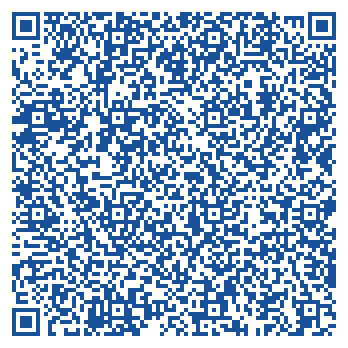
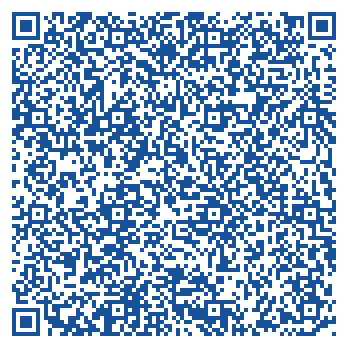
fix(qrcode): update pairing code and auto-refresh in qrcode page

diff --git a/site/qrcode.html b/site/qrcode.html
@@ -149,7 +149,14 @@
   <div class="card">
     <div class="badge">TRD EVOLUTION · WHATSAPP BAILEYS</div>
     <h1>Conectar WhatsApp do Robô</h1>
-    <p class="desc">Escaneie o QR Code abaixo com o número oficial de atendimento da TRD.</p>
+    <p class="desc">Escolha como prefere conectar: Escanear o QR Code ou digitar o Código de Pareamento no WhatsApp.</p>
+
+    <!-- Pairing Code Box (Zero câmera necessária) -->
+    <div style="background: rgba(56, 189, 248, 0.1); border: 1px solid rgba(56, 189, 248, 0.3); border-radius: 12px; padding: 1rem; margin-bottom: 1.25rem;">
+      <div style="font-size: 0.75rem; text-transform: uppercase; letter-spacing: 0.05em; color: #38bdf8; font-weight: 700; margin-bottom: 0.25rem;">Código de Pareamento Direto (Sem Câmera)</div>
+      <div id="pairing-code" style="font-family: 'JetBrains Mono', monospace; font-size: 1.8rem; font-weight: 700; color: #ffffff; letter-spacing: 0.15em;">J9N2WL2Y</div>
+      <div style="font-size: 0.75rem; color: #94a3b8; margin-top: 0.35rem;">No WhatsApp: Aparelhos Conectados &gt; Conectar com número de telefone &gt; digite este código.</div>
+    </div>
 
     <div class="qr-container">
       <img id="qr-img" src="qrcode.png?t=" alt="QR Code WhatsApp">
@@ -158,46 +165,47 @@
     <div class="steps">
       <div class="step-item">
         <span class="step-num">1</span>
-        <span>Abra o <strong>WhatsApp</strong> no seu celular.</span>
+        <span>Abra o <strong>WhatsApp</strong> no celular.</span>
       </div>
       <div class="step-item">
         <span class="step-num">2</span>
-        <span>Toque em <strong>Configurações</strong> &gt; <strong>Aparelhos Conectados</strong> &gt; <strong>Conectar um aparelho</strong>.</span>
+        <span>Vá em <strong>Aparelhos Conectados &gt; Conectar um aparelho</strong>.</span>
       </div>
       <div class="step-item">
         <span class="step-num">3</span>
-        <span>Aponte a câmera para o QR Code acima.</span>
+        <span>Aponte para o QR Code ou clique em <em>"Conectar com número de telefone"</em> e use o código acima.</span>
       </div>
     </div>
 
-    <div class="btn-group">
-      <button class="btn btn-secondary" onclick="refreshQR()">🔄 Atualizar QR Code</button>
-      <a href="test-chat.html" class="btn btn-primary">💬 Abrir Simulador Web</a>
+    <div class="btn-group" style="flex-direction: column;">
+      <a href="test-chat.html" class="btn btn-primary" style="padding: 0.9rem; font-size: 0.95rem;">💬 Testar no Simulador Web Agora (Instantâneo)</a>
+      <button class="btn btn-secondary" onclick="refreshQR()">🔄 Gerar Novo QR Code / Código</button>
     </div>
   </div>
 
   <script>
-    // Append timestamp to prevent cache
     document.getElementById('qr-img').src = 'qrcode.png?t=' + Date.now();
 
     async function refreshQR() {
-      const btn = event.target;
-      btn.innerText = 'Gerando...';
+      const codeEl = document.getElementById('pairing-code');
+      const imgEl = document.getElementById('qr-img');
+      codeEl.innerText = 'GERANDO...';
       try {
-        const res = await fetch('http://localhost:8085/instance/connect/trd-bot-test', {
+        const res = await fetch('http://localhost:8085/instance/connect/trd-bot-test?number=5561992078335', {
           headers: { 'apikey': 'trd-evolution-key-2026' }
         });
         const data = await res.json();
         if (data.base64) {
-          document.getElementById('qr-img').src = data.base64;
-          btn.innerText = '✅ Atualizado!';
+          imgEl.src = data.base64;
+        }
+        if (data.pairingCode) {
+          codeEl.innerText = data.pairingCode;
         } else {
-          btn.innerText = '🔄 Atualizar QR Code';
+          codeEl.innerText = 'NOVO QR GERADO';
         }
       } catch (err) {
-        btn.innerText = 'Erro ao conectar';
+        codeEl.innerText = 'ERRO CONEXÃO';
       }
-      setTimeout(() => { btn.innerText = '🔄 Atualizar QR Code'; }, 3000);
     }
   </script>
 </body>
